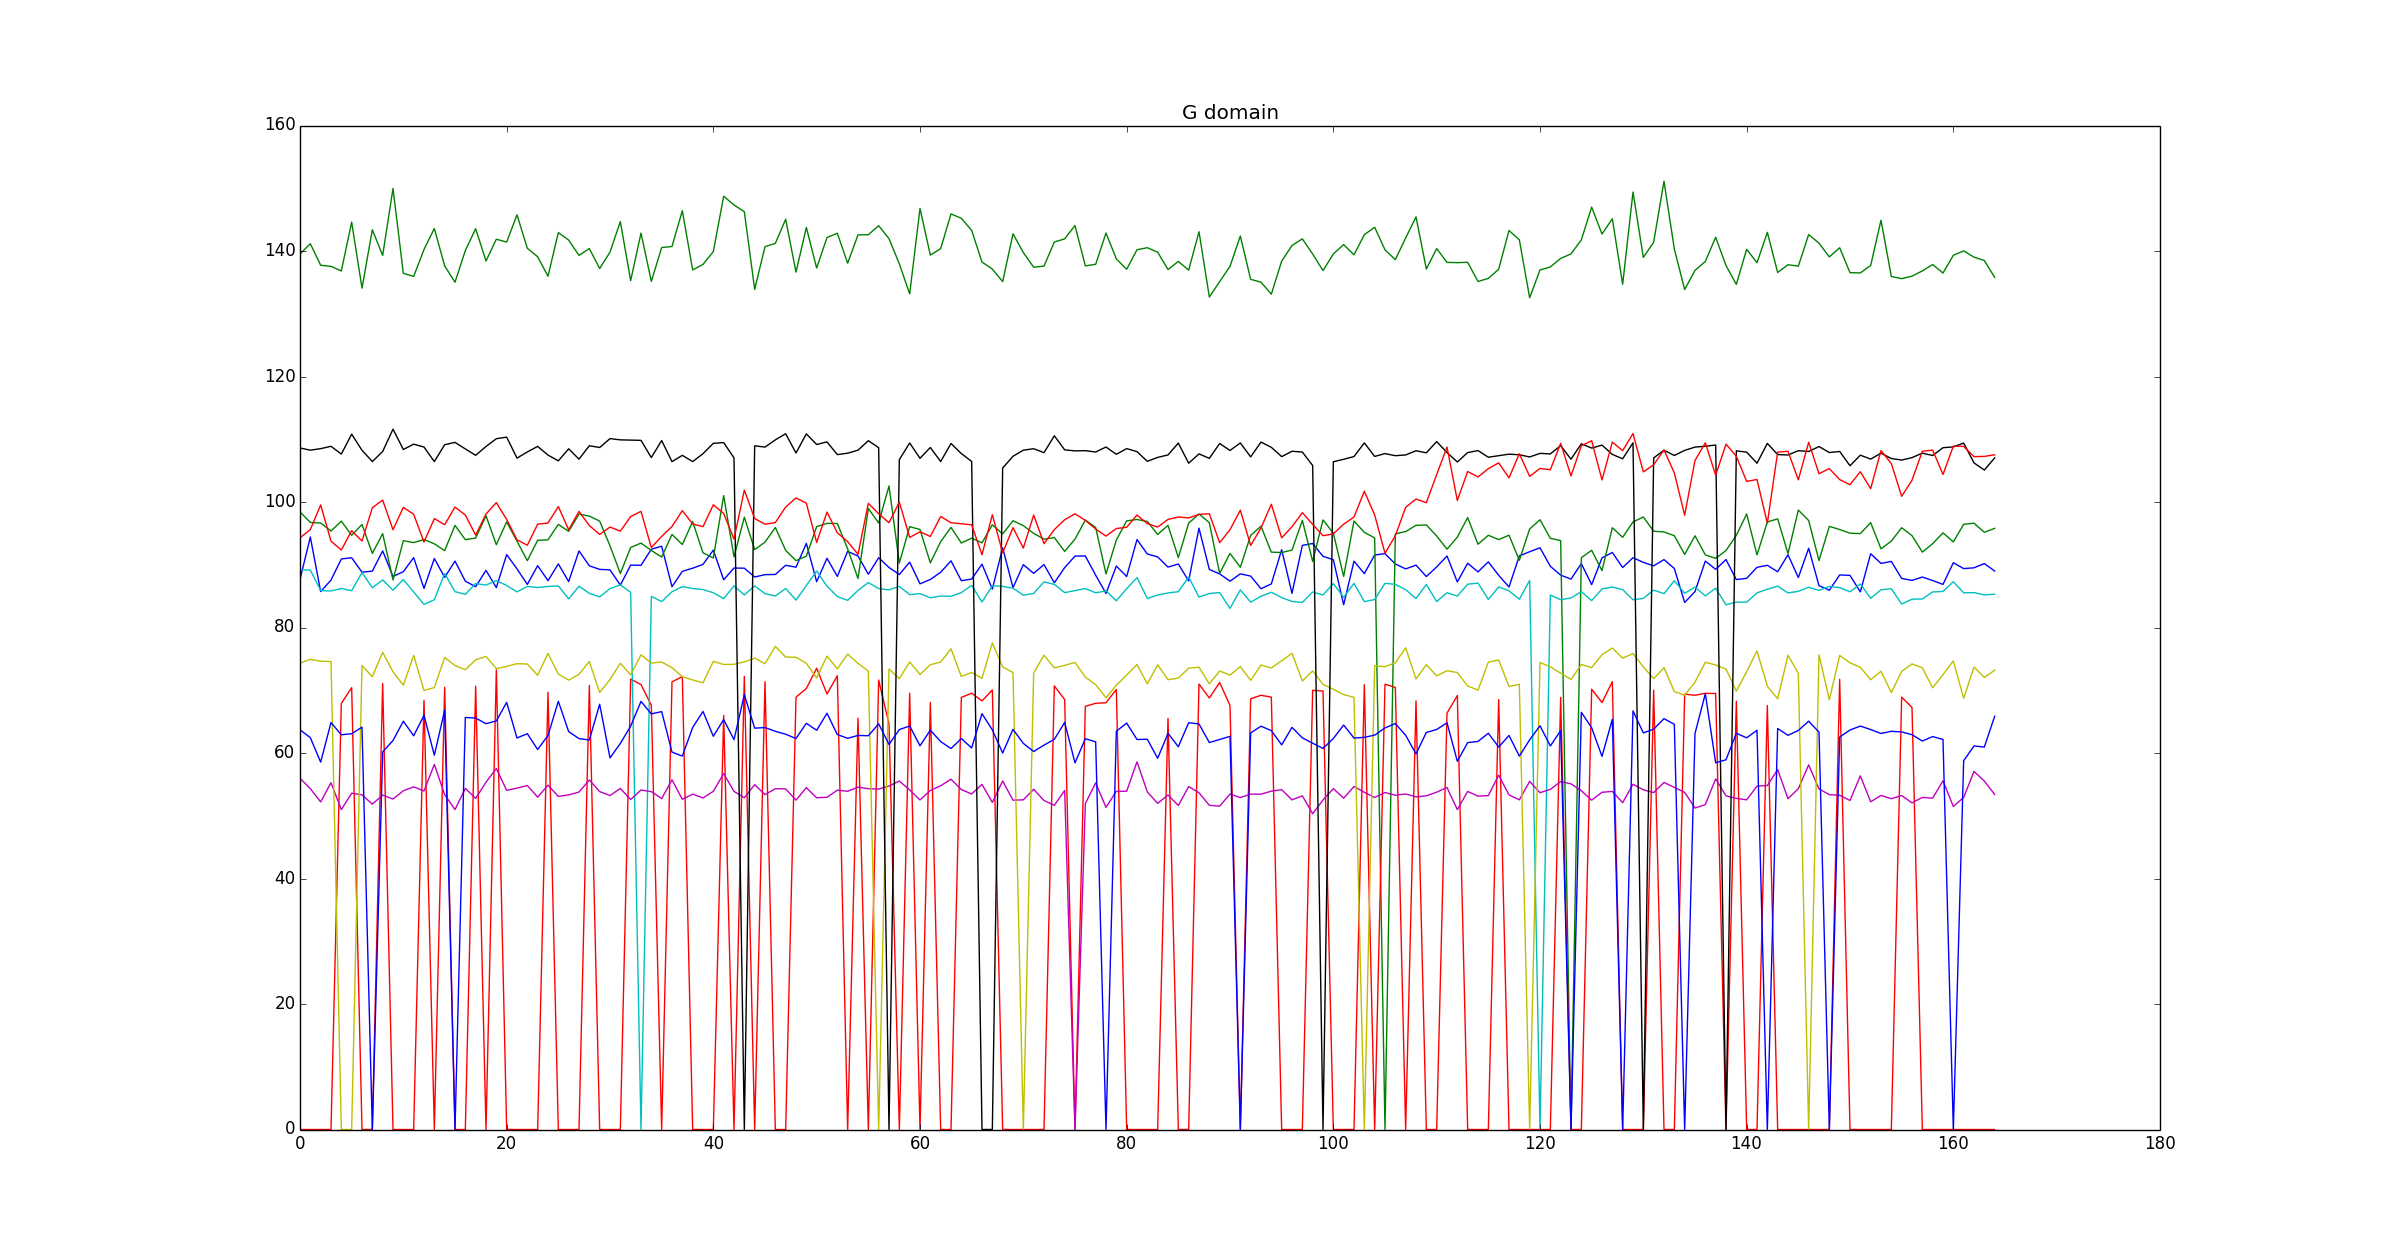
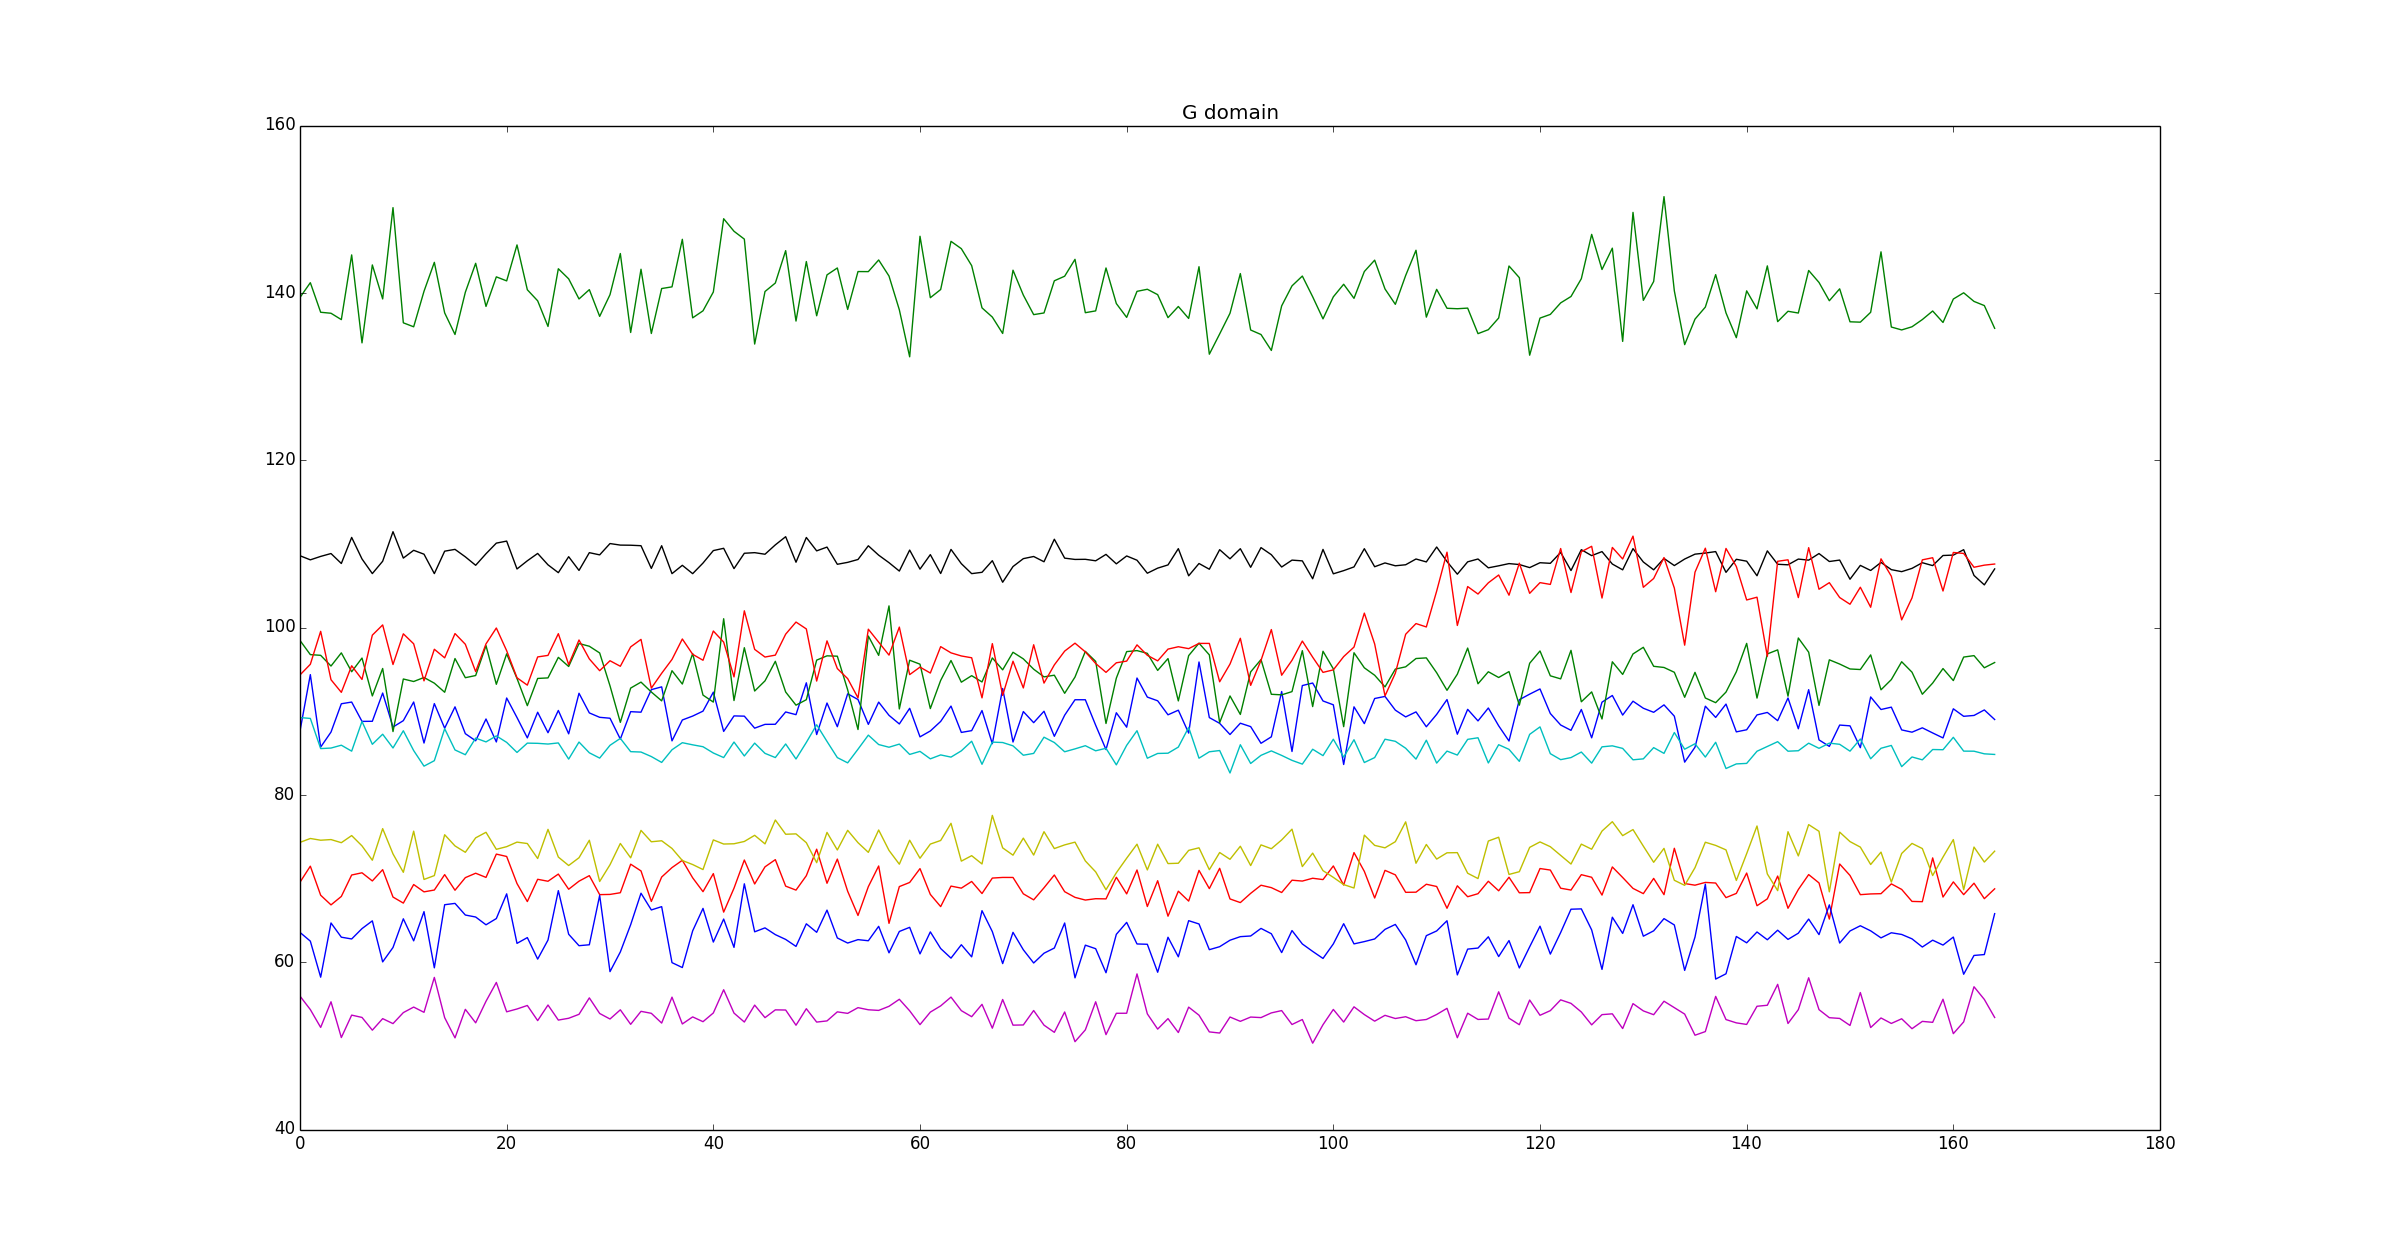
update

diff --git a/mt_curve_fiiting_3c.py b/mt_curve_fiiting_3c.py
@@ -64,7 +64,7 @@ def light_params(im,pts):
         datapts  = np.vstack((x,y)).T
         data = im_cut[datapts[:,1],datapts[:,0]]
         
-        x0 = [1000.,8e-5,8e-5,-0.02,20,16,16] #initial
+        x0 = [1000.,0.02,0.02,0,20,16,16] #initial
         args=[data,x,y] 
         k = optimize.fmin_powell(chisq,x0,args)        
         min_fval = chisq(list(k),*args)
@@ -72,17 +72,14 @@ def light_params(im,pts):
         
         niter=3
         seed=314
-        np.random.seed(seed)        
-        #sol = np.array(k)        
-
+        np.random.seed(seed)              
+        
         for i in np.arange(niter):
             x0 = k*(0.6*np.random.rand()+0.7)
             k = optimize.fmin_powell(chisq,x0,args=[data,x,y])
             if min_fval > chisq(list(k),*args):    
                min_fval = chisq(list(k),*args)         
                min_fval_params =k
-            #sol = np.vstack([sol,k])              
-        #amp,B,C,D,E,ctr_x,ctr_y = k
         params.append(min_fval_params)
     return params
 
@@ -127,9 +124,9 @@ def image_processing_B(img_idx):
     
     
 pts = [ [1260,1605],[1305,1670],[1680,1750],[1980,1580],[2510,1535],\
-            [2505,1237],[2500,1115],[2695,1040],[3200,1350],[3615,1540]\
+        [2505,1237],[2500,1115],[2690,1035],[3200,1350],[3615,1540]\
           ]  
-          
+      
 
 path = 'C:/Users/atc327/Desktop/images_ggd/'
 img_dir = glob.glob( os.path.join(path, '*.jpg') )
@@ -150,39 +147,97 @@ if __name__ == '__main__':
     title('gray scale')  
     
     
-##   R domain      
-#    ing_G_R = []
-#    ing_G_R.append(pool.map(image_processing_R,range(len(img_dir))))
-#    ing_G_R = ing_G_R[0] 
-#    ing_G_R = np.transpose(ing_G_R)
-#    for i in arange(len(pts)):   
+#   R domain      
+    ing_G_R = []
+    ing_G_R.append(pool.map(image_processing_R,range(len(img_dir))))
+    ing_G_R = ing_G_R[0] 
+    ing_G_R = np.transpose(ing_G_R)
+    for i in arange(len(pts)):   
+        figure(2),
+        plot(arange(len(img_dir)),ing_G_R[i])        
+    figure(2), 
+    title('R domain') 
+    
+    
+#   G domain    
+    ing_G_G = []
+    ing_G_G.append(pool.map(image_processing_G,range(len(img_dir))))
+    ing_G_G = ing_G_G[0]
+    ing_G_G = np.transpose(ing_G_G)
+    ing_G_B = []       
+    for i in arange(len(pts)):
+        figure(3),
+        plot(arange(len(img_dir)),ing_G_G[i])        
+    figure(3), 
+    title('G domain')
+    
+    
+#   B domain    
+    ing_G_B = []
+    ing_G_B.append(pool.map(image_processing_B,range(len(img_dir)))) 
+    ing_G_B = ing_G_B[0]
+    ing_G_B = np.transpose(ing_G_B)             
+    for i in arange(len(pts)):
+        figure(4),
+        plot(arange(len(img_dir)),ing_G_B[i])
+    figure(4), 
+    title('B domain') 
+
+## plot by point    
+# for i in arange(len(pts)):
+#    figure(i+1),
+#    plot(arange(len(img_dir)),ing_G[i],color = 'black')
+#    plot(arange(len(img_dir)),ing_G_R[i],color = 'red')
+#    plot(arange(len(img_dir)),ing_G_G[i],color = 'green')
+#    plot(arange(len(img_dir)),ing_G_B[i],color = 'blue')
+#    name = "Point " + repr(i+1)
+#    title(name)
+   
+    
+    
+    
+    
+    
+    
+## plot intergrate value subtract average value    
+#    avg = []
+#    avgR = []
+#    avgG = []
+#    avgB = []
+#    
+#    for i in arange(len(pts)):
+#        avg.append(sum(ing_G[i])/len(ing_G[i]))
+#        avgR.append(sum(ing_G_R[i])/len(ing_G_R[i]))
+#        avgG.append(sum(ing_G_G[i])/len(ing_G_G[i]))
+#        avgB.append(sum(ing_G_B[i])/len(ing_G_B[i]))
+#    
+#    
+#    
+#    
+#    
+#    
+#    
+#    for i in arange(len(pts)):
+#        figure(1),
+#        plot(arange(len(img_dir)),ing_G[i]-avg[i])        
+#    figure(1), 
+#    title('gray scale (substract avg)')
+#    
+#    for i in arange(len(pts)):
 #        figure(2),
-#        plot(arange(len(img_dir)),ing_G_R[i])        
+#        plot(arange(len(img_dir)),ing_G_R[i]-avgR[i])        
 #    figure(2), 
-#    title('R domain') 
+#    title('R domain(substract avg)')
 #    
-#    
-##   G domain    
-#    ing_G_G = []
-#    ing_G_G.append(pool.map(image_processing_G,range(len(img_dir))))
-#    ing_G_G = ing_G_G[0]
-#    ing_G_G = np.transpose(ing_G_G)
-#    ing_G_B = []       
 #    for i in arange(len(pts)):
 #        figure(3),
-#        plot(arange(len(img_dir)),ing_G_G[i])        
+#        plot(arange(len(img_dir)),ing_G_G[i]-avgG[i])        
 #    figure(3), 
-#    title('G domain')
+#    title('G domain(substract avg)')
 #    
-#    
-##   B domain    
-#    ing_G_B.append(pool.map(image_processing_B,range(len(img_dir)))) 
-#    ing_G_B = ing_G_B[0]
-#    ing_G_B = np.transpose(ing_G_B)             
 #    for i in arange(len(pts)):
 #        figure(4),
-#        plot(arange(len(img_dir)),ing_G_B[i])
+#        plot(arange(len(img_dir)),ing_G_B[i]-avgB[i])        
 #    figure(4), 
-#    title('B domain')  
-    
-    
+#    title('B domain(substract avg)')
+#        

diff --git a/165/test_curve_fitting.py b/165/test_curve_fitting.py
@@ -98,19 +98,19 @@ def light_params(im,pts):
     
 if __name__ == '__main__':  
     pts = [ [1260,1605],[1305,1670],[1680,1750],[1980,1580],[2510,1535],\
-            [2505,1237],[2500,1115],[2695,1040],[3200,1350],[3615,1540]\
+            [2505,1237],[2500,1115],[2690,1035],[3200,1350],[3615,1540]\
           ]
     
-    pic_idx = 71
-    idx      = 1    
+    pic_idx = 2
+    idx      = 7    
     PTS = pts[idx]      
     
     
     path = 'C:/Users/atc327/Desktop/images_ggd/'
     img_dir = glob.glob( os.path.join(path, '*.jpg') )
     
-    im_ori = np.array(Image.open(img_dir[pic_idx]).convert('L')).astype(np.float)
-    result = light_params(im_ori,PTS)
+    im = np.array(Image.open(img_dir[pic_idx]).convert('L')).astype(np.float)
+    result = light_params(im,PTS)
     
     
     cmap = 'gist_heat'
